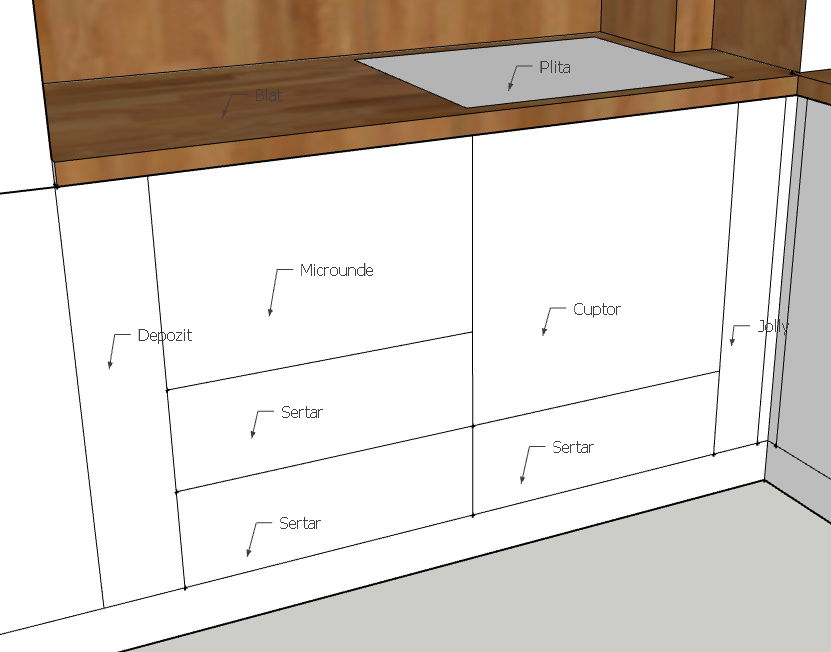
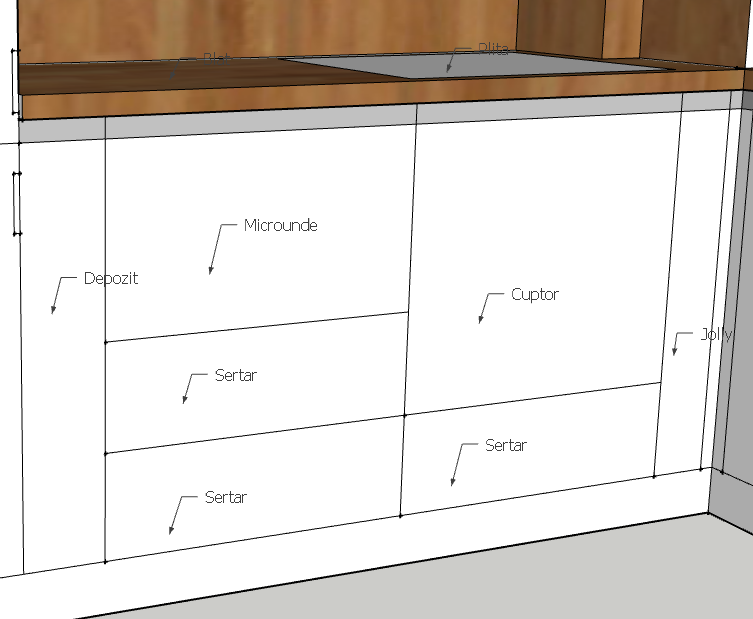
masca, gola, sertare

diff --git a/readme.md b/readme.md
@@ -10,6 +10,7 @@ Materiale suprafete:
 Note semnificative:
 - Inaltime corpuri cu blat: 93cm - pentru a putea acomoda masina spalat vase, si ajunge la nivel cu pervaz geam
 - Depozitele se deschid cu usa
+- Golele pentru compartimentele de sub blat sunt doar imediat sub blat, celelalte compartimente se deschid cu push
 
 ## Corp "frigider"
 
@@ -17,8 +18,8 @@ Note semnificative:
 
 Compartimente, jos-sus:
 - Plinta
-- Congelator: MDF HG13 la fata, deschidere cu gola
-- [Frigider](https://www.grundig.com/content/dam/rainbow-grundig-romania-ro-aem/rainbow-grundig-romania-ro-aemProductCatalog/product-documents/7278749504-GKNI6950FHN/en-US-7278749504-202203081302731-Installation-Diagramen-US.pdf): MDF HG13 la fata, PAL H1318 lateral dreapta, deschidere cu gola
+- Congelator: MDF HG13 la fata, deschidere cu maner
+- [Frigider](https://www.grundig.com/content/dam/rainbow-grundig-romania-ro-aem/rainbow-grundig-romania-ro-aemProductCatalog/product-documents/7278749504-GKNI6950FHN/en-US-7278749504-202203081302731-Installation-Diagramen-US.pdf): MDF HG13 la fata, PAL H1318 lateral dreapta, deschidere cu maner
 - Depozit: MDF HG13 la fata, deschidere cu push
 
 Note semnificative:
@@ -27,6 +28,7 @@ Note semnificative:
 - Latime cat mai mica pt a distribui cat mai mult blatului din dreapta
 - Separarea dintre congelator si frigider sa fie la nivelul blatului
 - Separarea dintre frigider si depozit sa fie la nivelul ultimului corp suspendat din dreapta
+- Depozitul are in partea stanga o masca, "perete" fals, care permite trecerea tevilor
 
 ## Corp "electrocasnice1"
 
@@ -35,9 +37,9 @@ Note semnificative:
 Compartimente, jos-sus si stanga-dreapta:
 - Plinta
 - Depozit: MDF HG13 la fata, 1 raft orizontal la mijloc, deschidere cu gola
-- 2 x Sertar h20: MDF HG13 la fata, deschidere cu gola
+- 2 x Sertar: MDF HG13 la fata, deschidere cu push
 - [Microunde](https://www.emag.ro/cuptor-cu-microunde-incorporabil-electrolux-25-l-900w-grill-alb-lms4253tmw/pd/D6SSHQBBM/#specification-section): MDF HG13 la fata, deschidere cu gola
-- 1 x Sertar h20: MDF HG13 la fata, deschidere cu gola
+- 1 x Sertar: MDF HG13 la fata, deschidere cu push
 - [Cuptor](https://www.emag.ro/cuptor-incorporabil-electrolux-electric-72-l-autocuratare-catalitica-grill-sensecook-touch-control-timer-clasa-a-alb-eoe7c31v/pd/D509TQBBM/#specification-section): MDF HG13 la fata, deschidere cu gola
 - Jolly: MDF HG13 la fata
 - Blat: H1318
@@ -45,6 +47,8 @@ Compartimente, jos-sus si stanga-dreapta:
 
 Note semnificative:
 - Jolly de 14cm latime pentru a profita de cat mai multa latime la depozit
+- Sertarul de sub microunde, cel de langa plinta, e de aceeasi inaltime cu cel de sub cuptor
+- Sertarul imadiat de sub microunde ocupa inaltimea ramasa
 
 ## Corp "suspendat"
 
